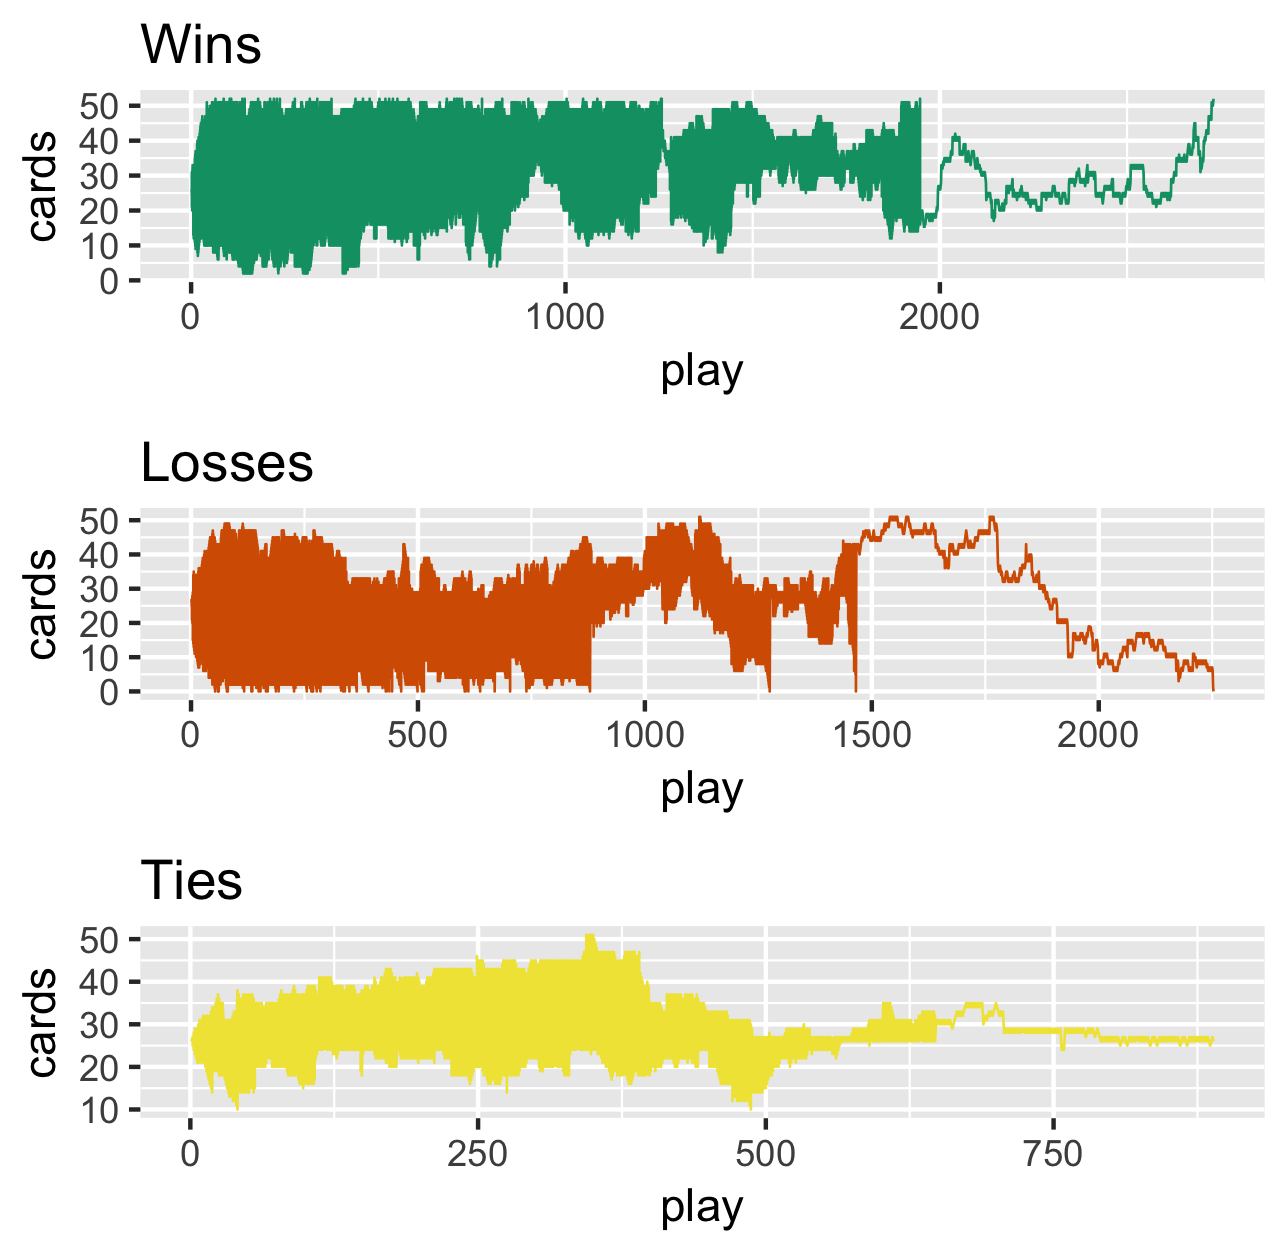
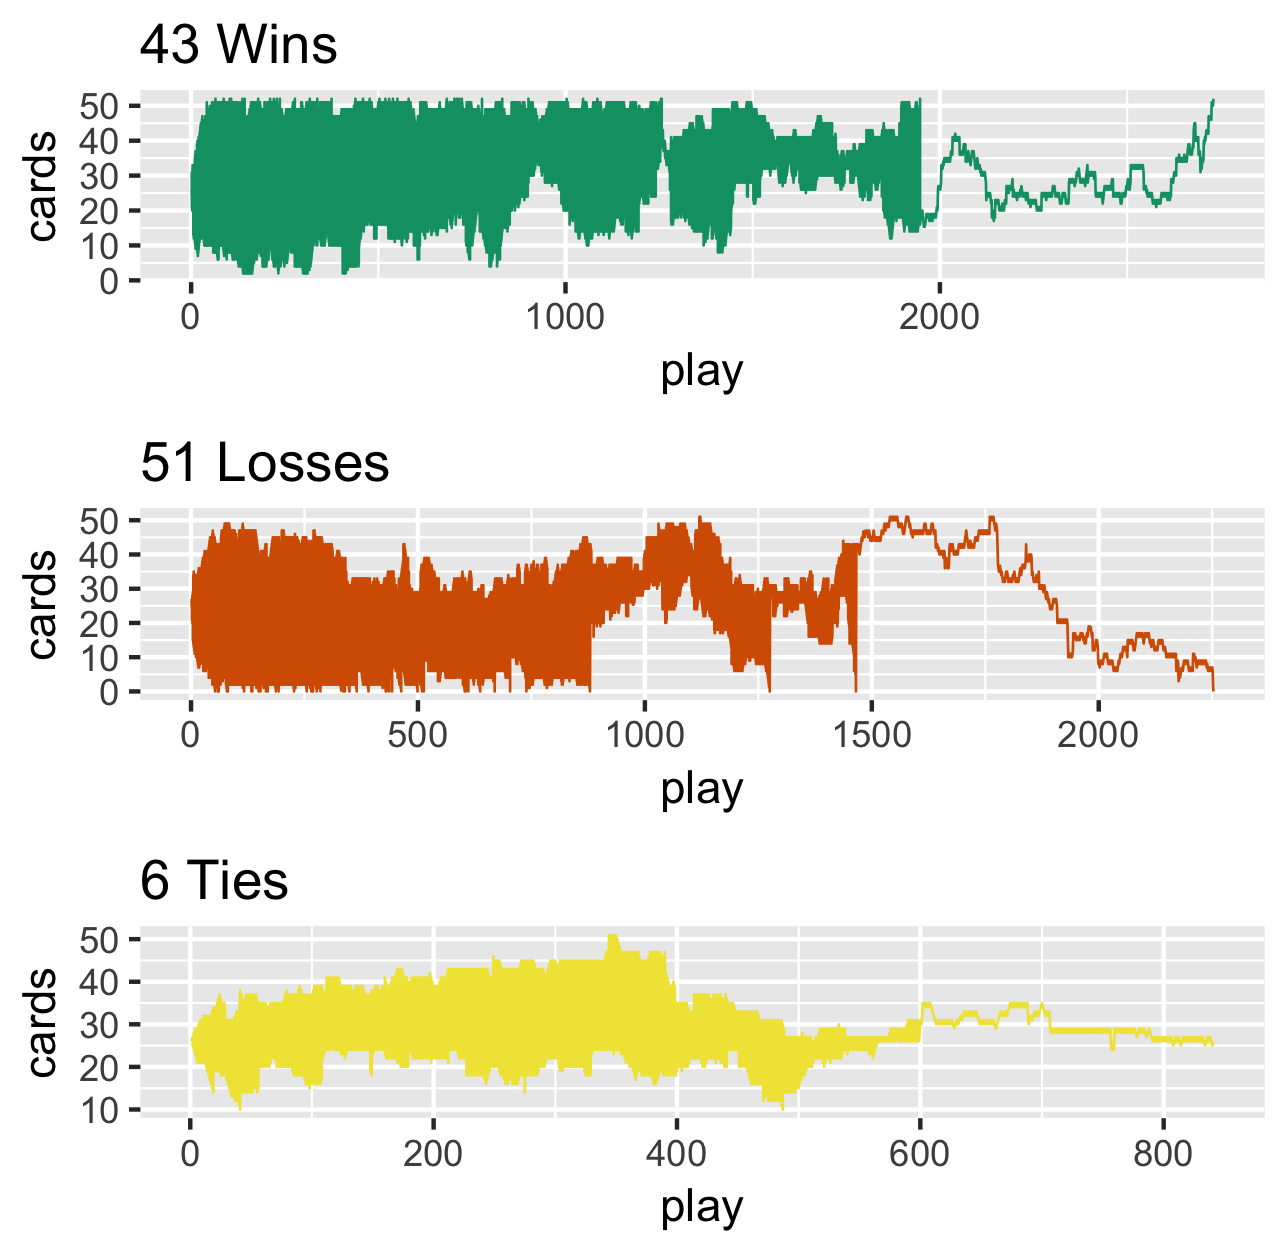
tuning the limit of a sequence for detecting a tie, and describing the two topics (one from real analysis and another from linear algebra) in the Readme

diff --git a/README.md b/README.md
@@ -6,4 +6,14 @@ To come are scripts to explore probabilities of winning.
 
 ![Number of cards by play](hand_sizes.png)
 
+## Two topics:
+1. In a game that goes on forever, the number of cards in a hand converges to a limit of 26 (half the deck).
+2. Model the probability of a hand winning as a Markov process
+
+## Limit of a sequence to resolve ties
+
 ![Number of cards above or below 26 for ties](tie_convergence.png)
+
+## Markov process
+
+We construct a 52 x 52 matrix. Each cell has a probability of a hand going from x number of cards to x +/- y number of cards. By exponentiating the matrix, we can calculate the probability of the hand winning.
